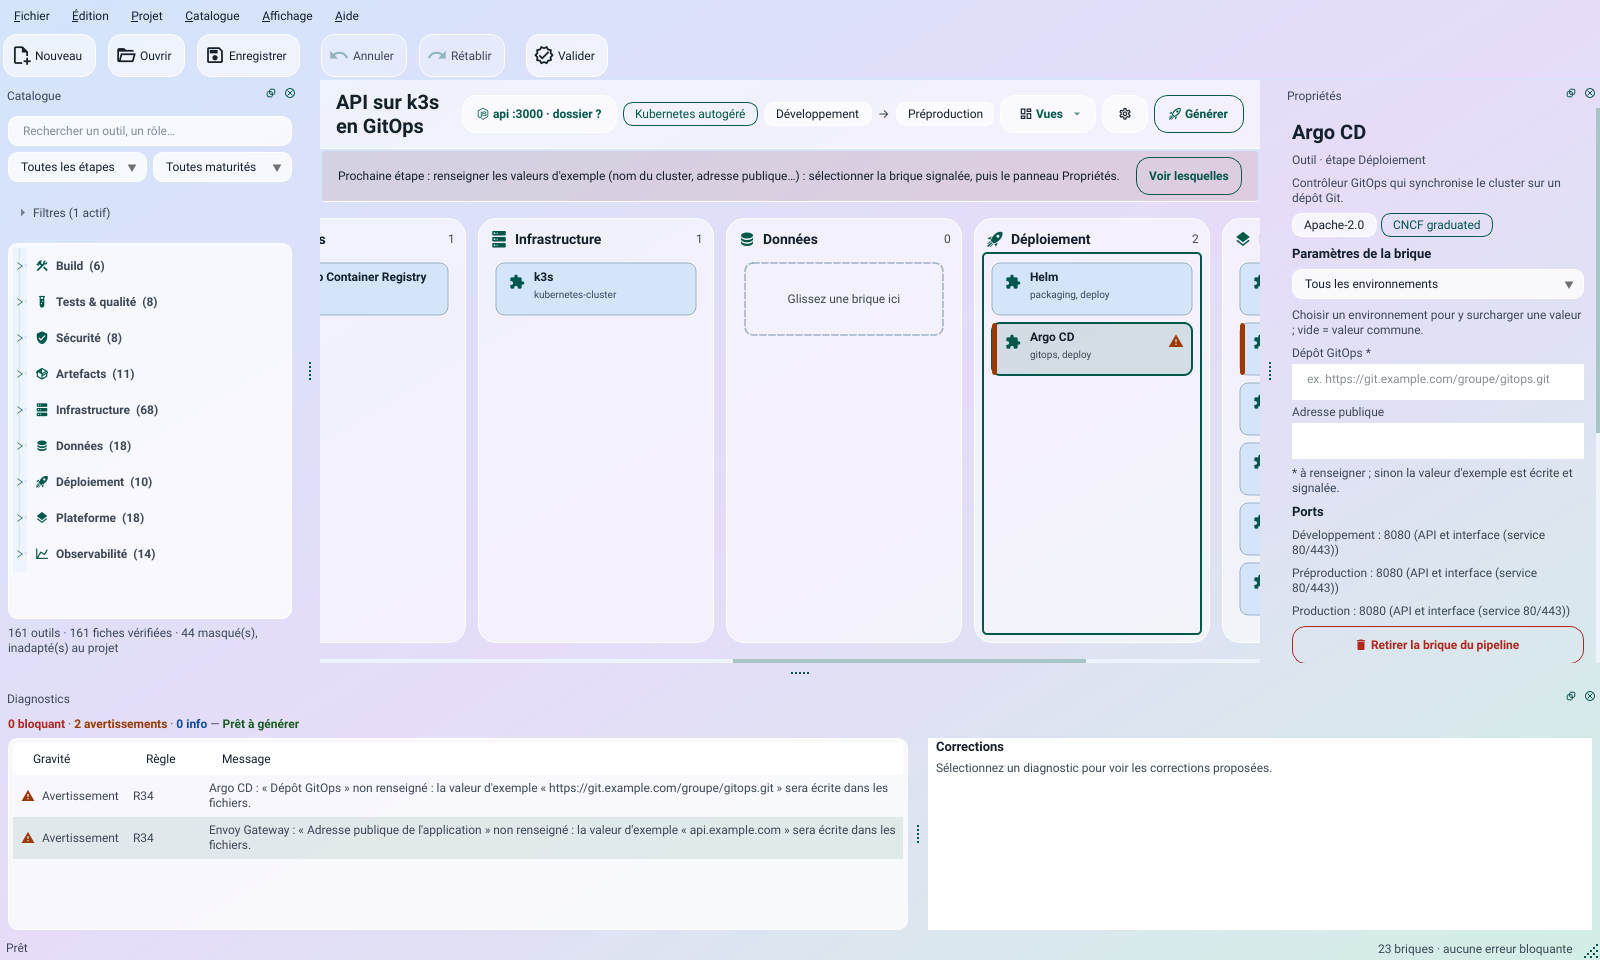
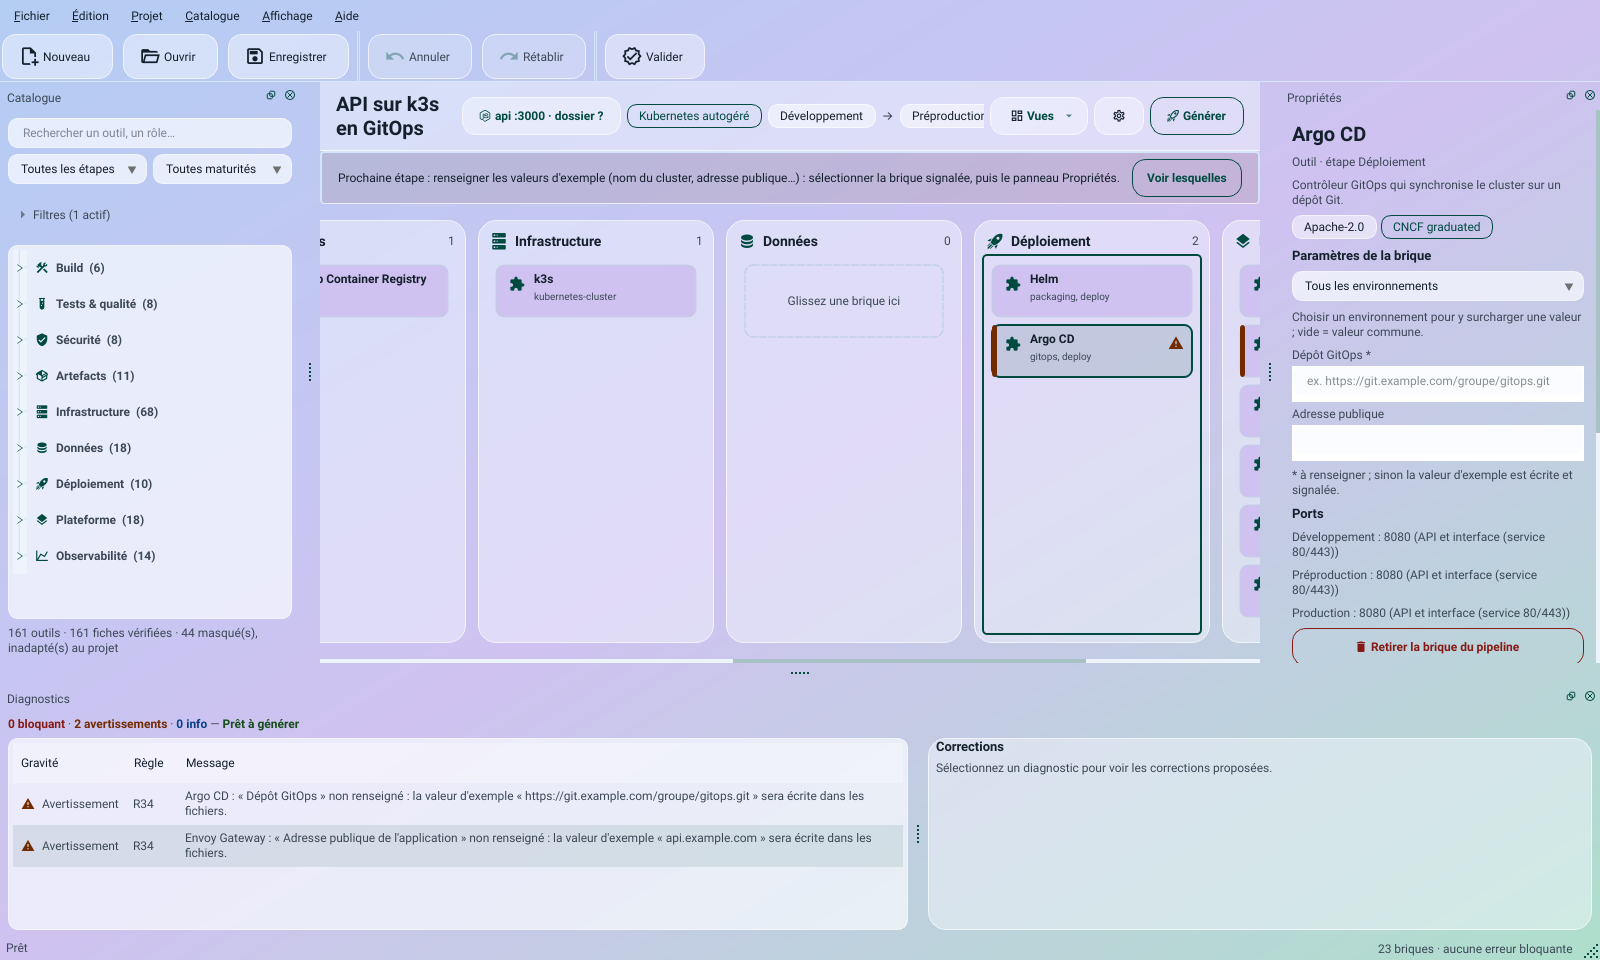
Thème Verre : états des boutons, dégradé plus marqué, panneaux moins blancs
Claude-Session: https://claude.ai/code/session_01T9ZcQDTmmTQrFXvofYsQiu

diff --git a/devops_builder/ui/theme.py b/devops_builder/ui/theme.py
@@ -45,9 +45,9 @@ DARK = Palette(True, "#80cbc4", "#b2fef7", "#2b3035", "#202326", "#3d444b", "#ec
 # Verre : imitation dessinée par l'application, identique sur tous les systèmes (pas l'effet natif de macOS 26).
 # Fond en dégradé pastel, panneaux blancs translucides. « background » est l'arrêt le plus sombre du dégradé et
 # « surface » le panneau composé sur lui : les contrastes se vérifient donc dans le cas le moins favorable.
-GLASS_STOPS = ("#d3e4fb", "#eae3fc", "#d2efe5")
-GLASS = Palette(False, "#00574b", "#3d8f81", "#eef4fc", "#d3e4fb", "#9fb1c7", "#14202c", "#3c4856",
-                blocking="#b3261e", warning="#9a3a00", info="#0b4a9e", ok="#1b5e20", name="verre", glass=True)
+GLASS_STOPS = ("#b4cdf3", "#cfc2f1", "#aedfcb")
+GLASS = Palette(False, "#004a40", "#3d8f81", "#dcd9f6", "#cfc2f1", "#c2d0e4", "#14202c", "#3c4856",
+                blocking="#861a14", warning="#722b00", info="#093f87", ok="#174d1b", name="verre", glass=True)
 THEMES: dict[str, Palette] = {p.name: p for p in (LIGHT, DARK, GLASS)}
 THEME_LABELS = {"clair": "Clair", "sombre": "Sombre", "verre": "Verre"}
 
@@ -164,11 +164,18 @@ QTreeView::indicator:disabled {{ image: url(icon:/disabled/checkbox_unchecked.sv
 
 
 def _glass_qss(p: Palette) -> str:
-    """Verre : le dégradé est peint par la fenêtre, les conteneurs le laissent voir, les panneaux le voilent."""
+    """Verre : le dégradé est peint par la fenêtre, les conteneurs le laissent voir, les panneaux le voilent.
+
+    Les boutons déclarent tous leurs états (survol, appui, coché, focus) : sinon les règles de qt-material
+    (bordures de 12 px colorées par état) reprennent la main au survol et déforment le bouton.
+    """
     a, b, c = GLASS_STOPS
-    panel = "rgba(255, 255, 255, 0.58)"     # panneau : assez opaque pour garder le texte à plus de 7:1
-    field = "rgba(255, 255, 255, 0.78)"     # champs et listes : plus opaques, on y lit et on y écrit
-    edge = "rgba(255, 255, 255, 0.95)"      # liseré clair, le « bord de verre »
+    panel = "rgba(246, 249, 255, 0.46)"     # panneau : voile bleuté, ni blanc franc ni opaque
+    field = "rgba(248, 251, 255, 0.72)"     # champs et listes : plus opaques, on y lit et on y écrit
+    edge = "rgba(255, 255, 255, 0.70)"      # liseré clair, le « bord de verre »
+    lift = "rgba(255, 255, 255, 0.78)"      # bouton survolé : le verre s'éclaircit
+    press = _rgba(p.primary, 0.22)          # bouton appuyé ou coché : teinte de la couleur principale
+    hov_edge = p.primary
     return f"""
 QMainWindow, QDialog {{
     background: qlineargradient(x1:0, y1:0, x2:1, y2:1, stop:0 {a}, stop:0.5 {b}, stop:1 {c});
@@ -179,17 +186,18 @@ QDockWidget, QDockWidget > QWidget, QTabWidget, QTabWidget > QWidget, QGroupBox,
 QToolBar, QStatusBar, QMenuBar, QWizardPage, QWizard > QWidget, QDialog > QWidget#qt_scrollarea_viewport {{
     background: transparent;
 }}
-QFrame#stageCard, QFrame#projectBar, QPushButton#startCard, QTabWidget::pane, QGroupBox {{
+QFrame#stageCard, QFrame#projectBar, QPushButton#startCard, QTabWidget::pane, QGroupBox, QWidget#fixesPanel {{
     background: {panel};
     border: 1px solid {edge};
     border-radius: 18px;
 }}
 QFrame#projectBar {{ border-radius: 0px; border-left: none; border-right: none; border-top: none; }}
 QFrame#stageCard[dropState="ok"] {{ border: 2px solid {p.primary}; background: {field}; }}
-QFrame#stageCard[dropState="no"] {{ border: 1px dashed {p.border}; background: rgba(255, 255, 255, 0.30); }}
+QFrame#stageCard[dropState="no"] {{ border: 1px dashed {p.text_muted}; background: rgba(255, 255, 255, 0.22); }}
 QPushButton#startCard[recommended="true"] {{ border: 2px solid {p.primary}; }}
-QPushButton#startCard:hover {{ border-color: {p.primary}; background: {field}; }}
-QFrame#nextStep {{ background: rgba(255, 255, 255, 0.45); border-bottom: 1px solid {edge}; }}
+QPushButton#startCard:hover, QPushButton#startCard:focus {{ border: 2px solid {hov_edge}; background: {lift}; }}
+QPushButton#startCard:pressed {{ border: 2px solid {hov_edge}; background: {press}; }}
+QFrame#nextStep {{ background: rgba(255, 255, 255, 0.34); border-bottom: 1px solid {edge}; }}
 QLineEdit, QPlainTextEdit, QTextEdit, QTextBrowser, QComboBox, QSpinBox, QTreeView, QTreeWidget, QListView,
 QTableView, QTableWidget {{
     background: {field};
@@ -197,31 +205,51 @@ QTableView, QTableWidget {{
     border-radius: 10px;
     color: {p.text};
 }}
+QTreeView::item:hover, QListView::item:hover, QTableView::item:hover {{ background: {_rgba(p.primary, 0.14)}; color: {p.text}; }}
+QTreeView::item:selected, QListView::item:selected, QTableView::item:selected,
+QTreeView::item:selected:hover {{ background: {_rgba(p.primary, 0.30)}; color: {p.text}; }}
+QLineEdit:hover, QComboBox:hover, QSpinBox:hover {{ border: 1px solid {hov_edge}; background: {lift}; }}
+QLineEdit:focus, QComboBox:focus, QSpinBox:focus {{ border: 2px solid {hov_edge}; }}
 QListWidget#stageList {{ background: transparent; border: none; }}
-QHeaderView::section {{ background: rgba(255, 255, 255, 0.55); color: {p.text}; border: none; }}
-QPushButton {{
-    background: {panel};
+QHeaderView, QTableView QTableCornerButton::section {{ background: transparent; border: none; }}
+QHeaderView::section {{ background: rgba(255, 255, 255, 0.30); color: {p.text}; border: none; padding: 4px 8px; }}
+QPushButton, QPushButton:hover, QPushButton:pressed, QPushButton:focus, QPushButton:checked {{
     border: 1px solid {edge};
     border-radius: 14px;
+    padding: 4px 14px;
+    margin: 0px;
     color: {p.primary};
 }}
-QPushButton:hover {{ background: {field}; }}
-QPushButton:disabled {{ color: {p.text_muted}; background: rgba(255, 255, 255, 0.30); }}
-QPushButton:flat {{ background: transparent; border: none; }}
-QToolBar QToolButton {{
-    background: {panel};
+QPushButton {{ background: {panel}; }}
+QPushButton:hover {{ background: {lift}; border: 1px solid {hov_edge}; }}
+QPushButton:focus {{ background: {lift}; border: 2px solid {hov_edge}; }}
+QPushButton:pressed, QPushButton:checked {{ background: {press}; border: 1px solid {hov_edge}; }}
+QPushButton:disabled {{ color: {p.text_muted}; background: rgba(255, 255, 255, 0.22); border: 1px solid {edge}; }}
+QPushButton:flat, QPushButton:flat:hover, QPushButton:flat:focus {{ background: transparent; border: none; }}
+QToolBar QToolButton, QToolBar QToolButton:hover, QToolBar QToolButton:pressed, QToolBar QToolButton:checked,
+QToolBar QToolButton:focus {{
     border: 1px solid {edge};
+    border-left: 1px solid {edge};
+    border-right: 1px solid {edge};
     border-radius: 14px;
+    padding: 4px 12px;
+    margin: 3px 2px;
     color: {p.text};
 }}
-QToolBar QToolButton:hover {{ background: {field}; }}
-QToolBar QToolButton:disabled {{ color: {p.text_muted}; background: rgba(255, 255, 255, 0.30); }}
-QToolButton#filtersToggle {{ background: transparent; }}
-QMenu {{ background: rgba(248, 251, 255, 0.97); border: 1px solid {edge}; border-radius: 10px; color: {p.text}; }}
+QToolBar QToolButton {{ background: {panel}; }}
+QToolBar QToolButton:hover {{ background: {lift}; border: 1px solid {hov_edge}; }}
+QToolBar QToolButton:focus {{ background: {lift}; border: 2px solid {hov_edge}; }}
+QToolBar QToolButton:pressed, QToolBar QToolButton:checked {{ background: {press}; border: 1px solid {hov_edge}; }}
+QToolBar QToolButton:disabled {{ color: {p.text_muted}; background: rgba(255, 255, 255, 0.22); border: 1px solid {edge}; }}
+QToolButton#filtersToggle, QToolButton#filtersToggle:hover {{ background: transparent; border: none; }}
+QMenu {{ background: rgba(244, 248, 255, 0.97); border: 1px solid {edge}; border-radius: 10px; color: {p.text}; }}
+QMenu::item:selected {{ background: {_rgba(p.primary, 0.20)}; color: {p.text}; }}
 QMenuBar::item {{ background: transparent; color: {p.text}; }}
+QMenuBar::item:selected {{ background: {_rgba(p.primary, 0.20)}; color: {p.text}; border-radius: 8px; }}
 QTabBar::tab {{ background: transparent; color: {p.text}; }}
+QTabBar::tab:hover {{ background: {_rgba(p.primary, 0.14)}; }}
 QToolTip {{ background: #14202c; color: #ffffff; border: none; border-radius: 6px; }}
-QLabel[chip="true"] {{ background: rgba(255, 255, 255, 0.70); border: 1px solid {edge}; }}
+QLabel[chip="true"] {{ background: rgba(255, 255, 255, 0.50); border: 1px solid {edge}; }}
 """
 
 

diff --git a/devops_builder/ui/diagnostics.py b/devops_builder/ui/diagnostics.py
@@ -69,6 +69,8 @@ class DiagnosticsPanel(QWidget):
         split.addWidget(self.tree)
 
         self.fixes = QWidget()
+        self.fixes.setObjectName("fixesPanel")
+        self.fixes.setAttribute(Qt.WidgetAttribute.WA_StyledBackground, True)
         self.fixes_lay = QVBoxLayout(self.fixes)
         self.fixes_lay.setContentsMargins(8, 0, 0, 0)
         self.fixes_lay.setAlignment(Qt.AlignmentFlag.AlignTop)

diff --git a/CHANGELOG.md b/CHANGELOG.md
@@ -4,6 +4,12 @@ Format inspiré de [Keep a Changelog](https://keepachangelog.com/fr/1.1.0/). Jus
 mineure peut changer les fichiers générés ; chaque changement voulu est relu dans les projets de référence
 (`tests/golden/`). Les fichiers projet de toutes les versions restent lisibles (voir `docs/format.md`).
 
+## Non publié
+
+### Corrigé
+- **Thème Verre — survol** : les boutons de la barre d'outils (Enregistrer, Annuler, Valider…) changeaient de forme et tronquaient leur texte au survol (bordures de 12 px de qt-material). Tous les états des boutons (survol, appui, coché, focus) sont maintenant déclarés : un survol éclaircit le verre et trace un liseré de la couleur principale.
+- **Thème Verre — rendu** : fond en dégradé plus marqué, panneaux bleutés au lieu de blanc franc, en-tête du tableau de diagnostics et panneau Corrections translucides ; survol et sélection lisibles dans les listes, arbres, menus et onglets. Couleurs principale, d'alerte et de bordure assombries pour garder le contraste sur le dégradé plus soutenu (audit : 0 constat sur les trois thèmes).
+
 ## 0.27.0 — 2026-11-14 — Pour débuter : un labo sans application, des guides qui se collent, un thème Verre
 
 ### Ajouté
